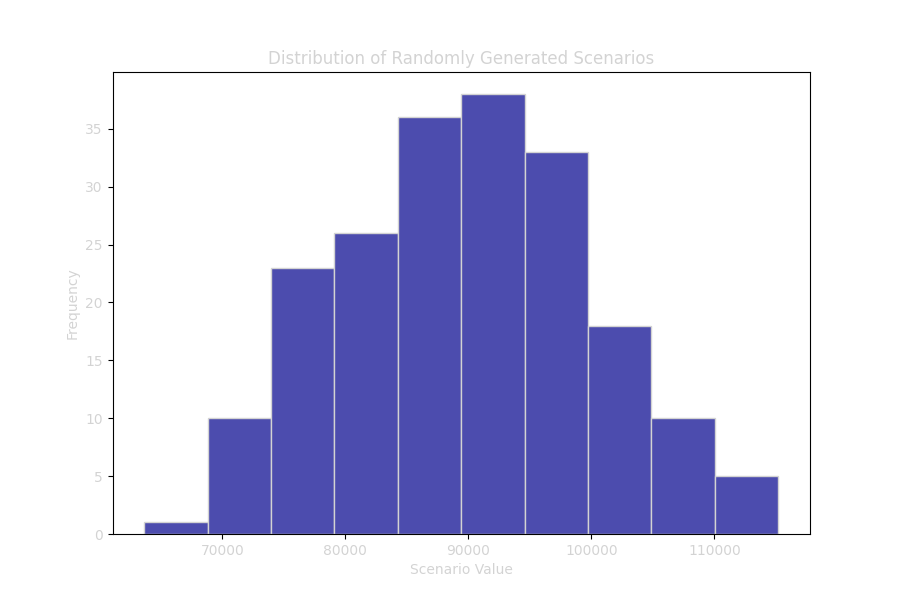
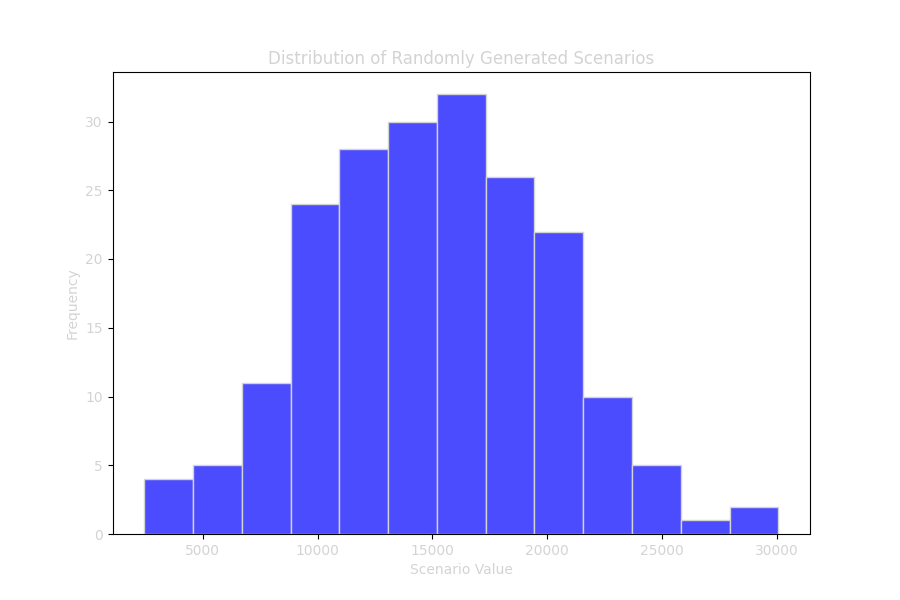
Improving the front end, number formatting.

Changed region(s): [[0.1556, 0.15, 0.8711, 0.93], [0.0933, 0.39, 0.1244, 0.45], [0.0933, 0.3, 0.1244, 0.33]]

diff --git a/templates/sell_results.html b/templates/sell_results.html
@@ -2,26 +2,32 @@
 
 {% block body %}
 <div class="container">
-  <div class="left-container">
-    <h2>Sell Results</h2>
-    <img src="{{ url_for('static', filename='histogram.png') }}" alt="Histogram">
+    <div class="left-container">
+      <h2>Scenarios</h2>
+      <ul class="multi-column-list">
+      {% for scenario in sorted_scenarios %}
+        <li>{{ scenario||currency}}</li>
+      {% endfor %}
+    </ul>
   </div>
-
+  
   <div class="middle-container">
-    <h2>Strategy Data</h2>
+    <h2>Sell results</h2>
+    <img src="{{ url_for('static', filename='histogram.png') }}" alt="Histogram">
     <table class="table">
       <thead>
         <tr>
-          <th>Strategy Name</th>
+          <th>Sell Top</th>
+          <th>Sell Bottom</th>
           <th>Average Profit</th>
         </tr>
       </thead>
       <tbody>
         {% for strategy in sorted_strategies %}
           <tr>
-            <td>{{ strategy[0] }}</td>
-            <td>{{ strategy[1] }}</td>
-            <td>{{ strategy[2]}}</td>
+            <td>{{ strategy[0]|currency}}</td>
+            <td>{{ strategy[1]|currency}}</td>
+            <td>{{ strategy[2]|currency}}</td>
           </tr>
         {% endfor %}
       </tbody>
@@ -29,10 +35,10 @@
   </div>
 
   <div class="right-container">
-    <h2>Scenarios</h2>
-    <ul>
-      {% for scenario in sorted_scenarios %}
-      <li>{{ scenario|round(2)}}</li>
+    <h2>Parameters</h2>
+    <ul style="list-style-type: none; padding-left: 0;">
+      {% for key, value in sce_stats.items() %}
+      <li style="font-size: 16px;"><strong>{{ key }}:</strong>{{ value|round(2) }}</li>
       {% endfor %}
     </ul>
   </div>

diff --git a/templates/buy_results.html b/templates/buy_results.html
@@ -6,7 +6,7 @@
       <h2>Scenarios</h2>
       <ul class="multi-column-list">
       {% for scenario in sorted_scenarios %}
-        <li>{{ scenario|round(2)}}</li>
+        <li>{{ scenario|currency}}</li>
       {% endfor %}
     </ul>
   </div>
@@ -17,7 +17,9 @@
     <table class="table">
       <thead>
         <tr>
-          <th>Strategy Name</th>
+          <th>Buy Bottom</th>
+          <th>Buy top</th>
+          <th>Steps</th>
           <th>Average Amount</th>
           <th>Average Rating</th>
         </tr>
@@ -25,9 +27,11 @@
       <tbody>
         {% for strategy in sorted_strategies %}
           <tr>
-            <td>{{ strategy[0]}}</td>
-            <td>{{ strategy[1]|round(3)}}</td>
-            <td>{{ strategy[2]|round(3)}}</td>
+            <td>{{ strategy[0]|currency}}</td>
+            <td>{{ strategy[1]|currency}}</td>
+            <td>{{ strategy[2]}}</td>
+            <td>{{ strategy[3]|currency}}</td>
+            <td>{{ strategy[4]|currency}}</td>
           </tr>
         {% endfor %}
       </div>
@@ -39,7 +43,7 @@
     <h2>Parameters</h2>
     <ul style="list-style-type: none; padding-left: 0;">
       {% for key, value in sce_stats.items() %}
-      <li style="font-size: 16px;"><strong>{{ key }}:</strong>{{ value|round(2) }}</li>
+      <li style="font-size: 16px;"><strong>{{ key }}:</strong>{{ value|number }}</li>
       {% endfor %}
     </ul>
   </div>

diff --git a/static/styles.css b/static/styles.css
@@ -20,8 +20,8 @@
 .form-container {
   width: 500px;
   margin: 0 auto;
-  background-color: #4b4b4b; /* Set the background color of the container */
-  padding: 20px; /* Add padding to the container */
+  background-color: #4b4b4b;
+  padding: 20px;
   border-radius: 8px;
 }
 
@@ -98,6 +98,7 @@ body {
   padding: 0.5em;
   color: lightgrey;
   text-align: left;
+  line-height: 0.2;
 }
 
 .table th {
@@ -106,10 +107,10 @@ body {
 }
 
 .multi-column-list {
-  -webkit-column-count: 5;  /* Number of columns */
+  -webkit-column-count: 5;
   -moz-column-count: 5;
   column-count: 5;
-  -webkit-column-gap: 5px;  /* Gap between columns */
+  -webkit-column-gap: 5px;
   -moz-column-gap: 5px;
   column-gap: 5px;
   list-style-type: none;

diff --git a/app.py b/app.py
@@ -2,6 +2,7 @@ from flask import Flask, render_template
 import random
 from flask_sqlalchemy import SQLAlchemy
 from flask_wtf import FlaskForm
+import locale
 import matplotlib
 import numpy as np
 matplotlib.use('Agg')
@@ -58,8 +59,8 @@ import os
 
 def plot_histogram(data, filename, width=9, height=6):
     plt.figure(figsize=(width, height))
-    sns.set_palette("dark")
-    sns.histplot(data, kde=False, color='darkblue', alpha=0.7, edgecolor='lightgray')       
+    sns.set_palette("husl")
+    sns.histplot(data, kde=False, color='blue', alpha=0.7, edgecolor='lightgray')       
     plt.gca().set_facecolor('none')
     plt.xlabel('Scenario Value', color='lightgray')
     plt.ylabel('Frequency', color='lightgray')
@@ -156,7 +157,7 @@ def sell():
         scenarios = [random.gauss(mu, sigma) for i in range(number_sce)]
         scenarios_str = ', '.join(map(str, scenarios))
         plot_histogram(scenarios, 'histogram.png')
-        # Write report
+        # Report
         with open('sell_report.txt', 'w') as file:
             file.write(f"User input: coins: {coins}, sell_bottom: {sell_bottom}, sell_top: {sell_top,}, steps: {steps}, step_increment: {step_increment}, mu: {mu}, sigma: {sigma}, number_sce: {number_sce}\n\n")
             file.write(f"Sell Strategies:\n{sell_strategies}\n\n")
@@ -169,6 +170,7 @@ def sell():
                 str_steps = []
                 file.write(f"\nStrategy: {strategy}\n")
                 file.flush()
+                # Writing all strategy steps to a list
                 for i in range(strategy["steps"]):
                     price = strategy["sell_bottom"] + (i * step_size)
                     str_steps.append(price)
@@ -185,8 +187,8 @@ def sell():
                     profit, coins = sell_order(coins, str_steps, price_normalize, scenario, file=file)
                     total_profit += profit                            
                 avg_profit = (total_profit / len(scenarios))
-                strategy_profits.append((strategy['name'], avg_profit))
-            sorted_strategies = sorted(strategy_profits, key=lambda x: x[1], reverse=True)       
+                strategy_profits.append((strategy['sell_top'], strategy['sell_bottom'], avg_profit))
+            sorted_strategies = sorted(strategy_profits, key=lambda x: x[2], reverse=True)       
             # Write report            
             file.write(f"Sorted Strategies: {sorted_strategies}")
             file.close()
@@ -197,7 +199,7 @@ def sell():
             return redirect(url_for('sell'))
         sorted_scenarios = sorted(scenarios, reverse=True)
         sce_stats = stats_sce(mu, sigma, scenarios)
-        return render_template('sell_results.html', sorted_strategies=sorted_strategies, sorted_scenarios=sorted_scenarios)
+        return render_template('sell_results.html', sorted_strategies=sorted_strategies, sorted_scenarios=sorted_scenarios, sce_stats=sce_stats)
     return render_template('sell.html', form=form)
 
 @app.route('/buy.html', methods=['GET', 'POST'])
@@ -226,6 +228,7 @@ def buy():
             file.write(f"Buy Strategies:\n{buy_strategies}\n\n")
             file.write(f"Scenarios\n{scenarios_str}\n\n")
             file.flush()
+            # Create steps for strategies
             for strategy in buy_strategies:
                 total_coins = 0
                 total_rating = 0
@@ -237,25 +240,25 @@ def buy():
                 for i in range(strategy["steps"]):
                     price = strategy["buy_top"] - (i * step_size)
                     str_steps.append(price)
+                # Calculating normalized price
                 price_sum = sum(str_steps)
                 price_denom = 0
                 for i in range(strategy["steps"]):
                     price_denom += price_sum / str_steps[i]
                 price_normalize = price_sum / price_denom            
-
+                # Calculating results
                 for scenario in scenarios:
                     file.write(f"\nScenario: {scenario}\n")
                     money = float(form.money.data)
                     money, coins, rating = buy_order(money, str_steps, price_normalize, scenario, file=file)
                     total_coins += coins
-                    total_rating += rating
-        
+                    total_rating += rating        
                 avg_coins = (total_coins / len(scenarios))
                 avg_rating = (total_rating / len(scenarios))
                 file.write(f"avg_coins: {avg_coins} total_coins {total_coins}\n")
-                strategy_amounts.append((strategy['name'], avg_coins, avg_rating))
+                strategy_amounts.append((strategy['buy_bottom'], strategy['buy_top'], strategy['steps'], avg_coins, avg_rating))
                                     
-                sorted_strategies = sorted(strategy_amounts, key=lambda x: x[1], reverse=True)       
+                sorted_strategies = sorted(strategy_amounts, key=lambda x: x[4], reverse=True)       
             file.write(f"Sorted Strategies: {sorted_strategies}\n")
             file.close()
 
@@ -288,6 +291,17 @@ def scenario():
         return render_template('scenario_results.html', sorted_scenarios = sorted_scenarios, sce_stats = sce_stats)
     
     return render_template('scenarios.html', form=form)
+
+@app.template_filter()
+def currency(val):
+    cur = float(val)
+    locale.setlocale(locale.LC_ALL, '')  # Set the locale based on the system settings
+    return locale.format_string("%.2f €", cur, grouping=True)
+
+@app.template_filter()
+def number(val):
+    num = float(val)
+    return "{:,.2f}".format(num)
 
 if __name__ == "__main__":
     app.run(debug=True)
